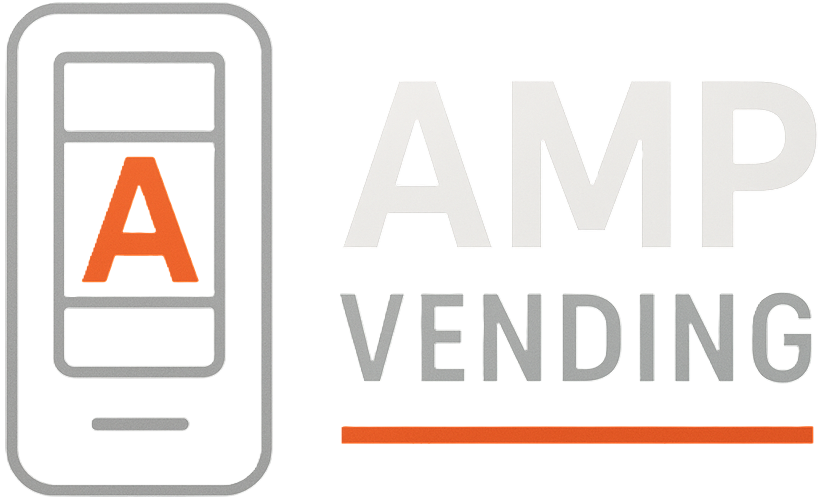
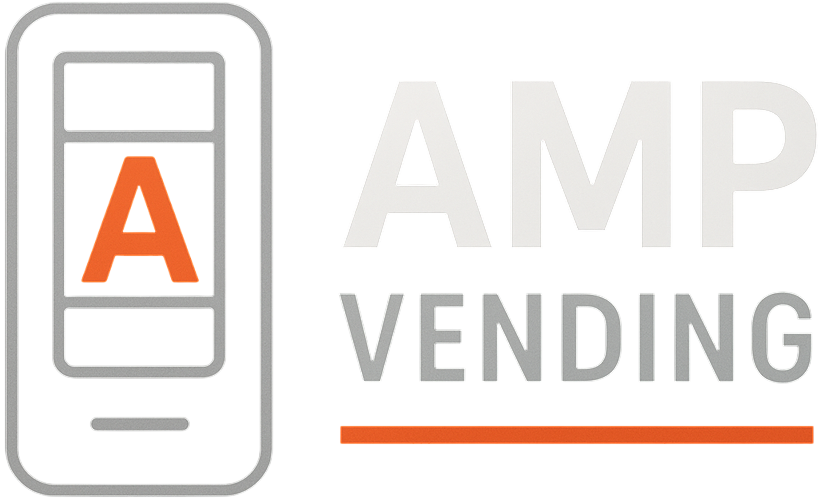
placeholder image update

Changed region(s): [[0.0915, 0.54, 0.122, 0.57]]

diff --git a/components/landing/ProductSection.tsx b/components/landing/ProductSection.tsx
@@ -10,7 +10,7 @@ import Section from '../ui/shared/Section';
  */
 const BackgroundOverlayCard = ({ product }: { product: Product }) => {
   const [imgError, setImgError] = useState(false);
-  const imageSrc = imgError || !product.image ? '/images/placeholder.svg' : product.image;
+  const imageSrc = imgError || !product.image ? '/images/placeholder.jpg' : product.image;
 
   return (
     <div className="relative group h-60 sm:h-72 overflow-hidden rounded-xl shadow-xl">
